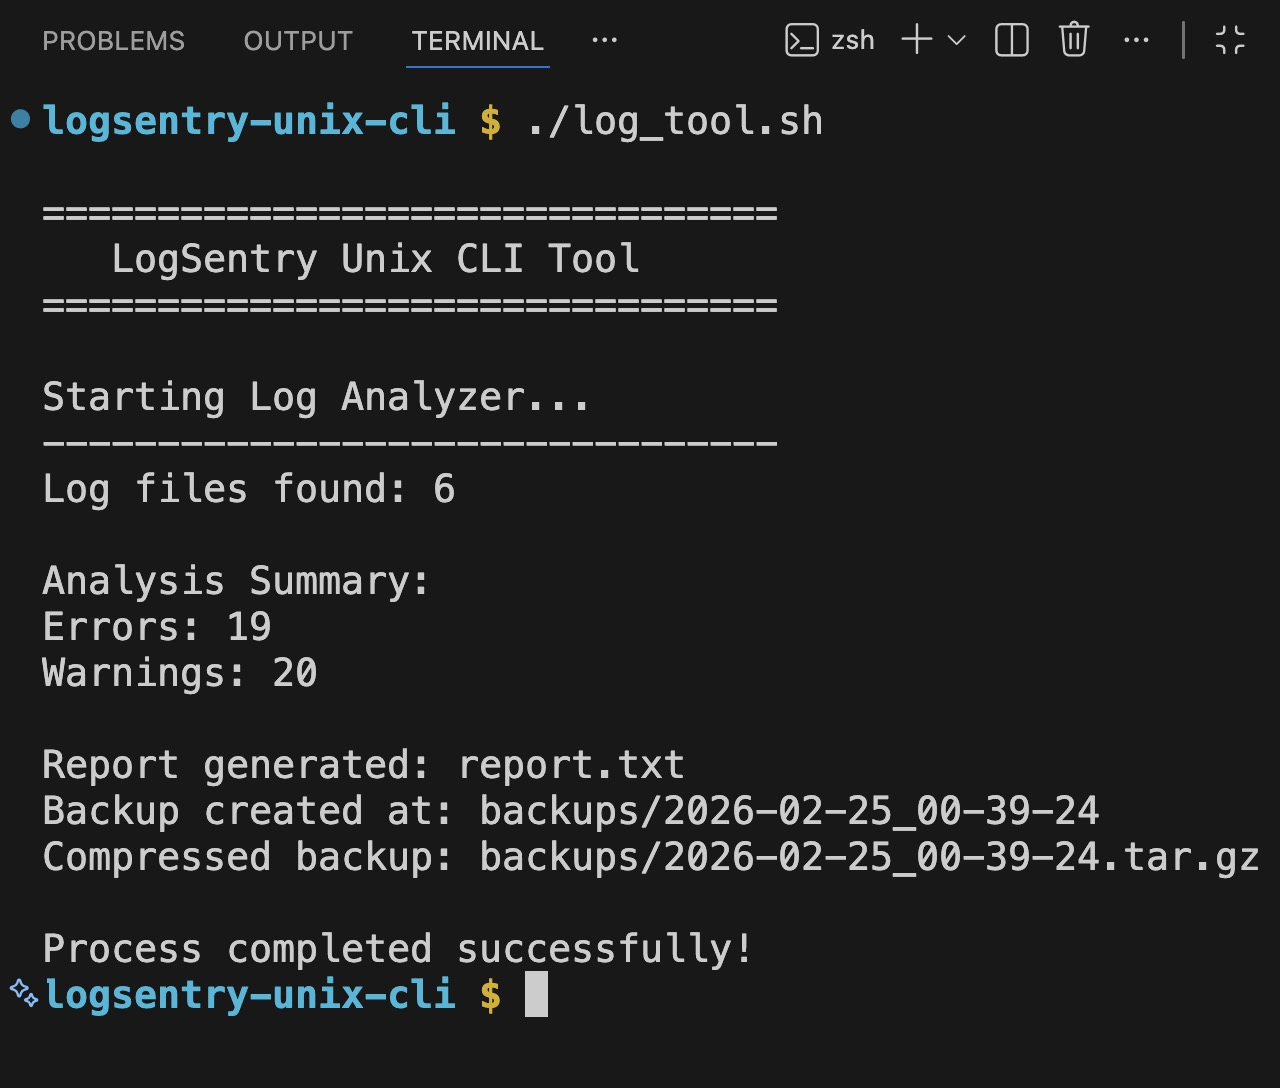
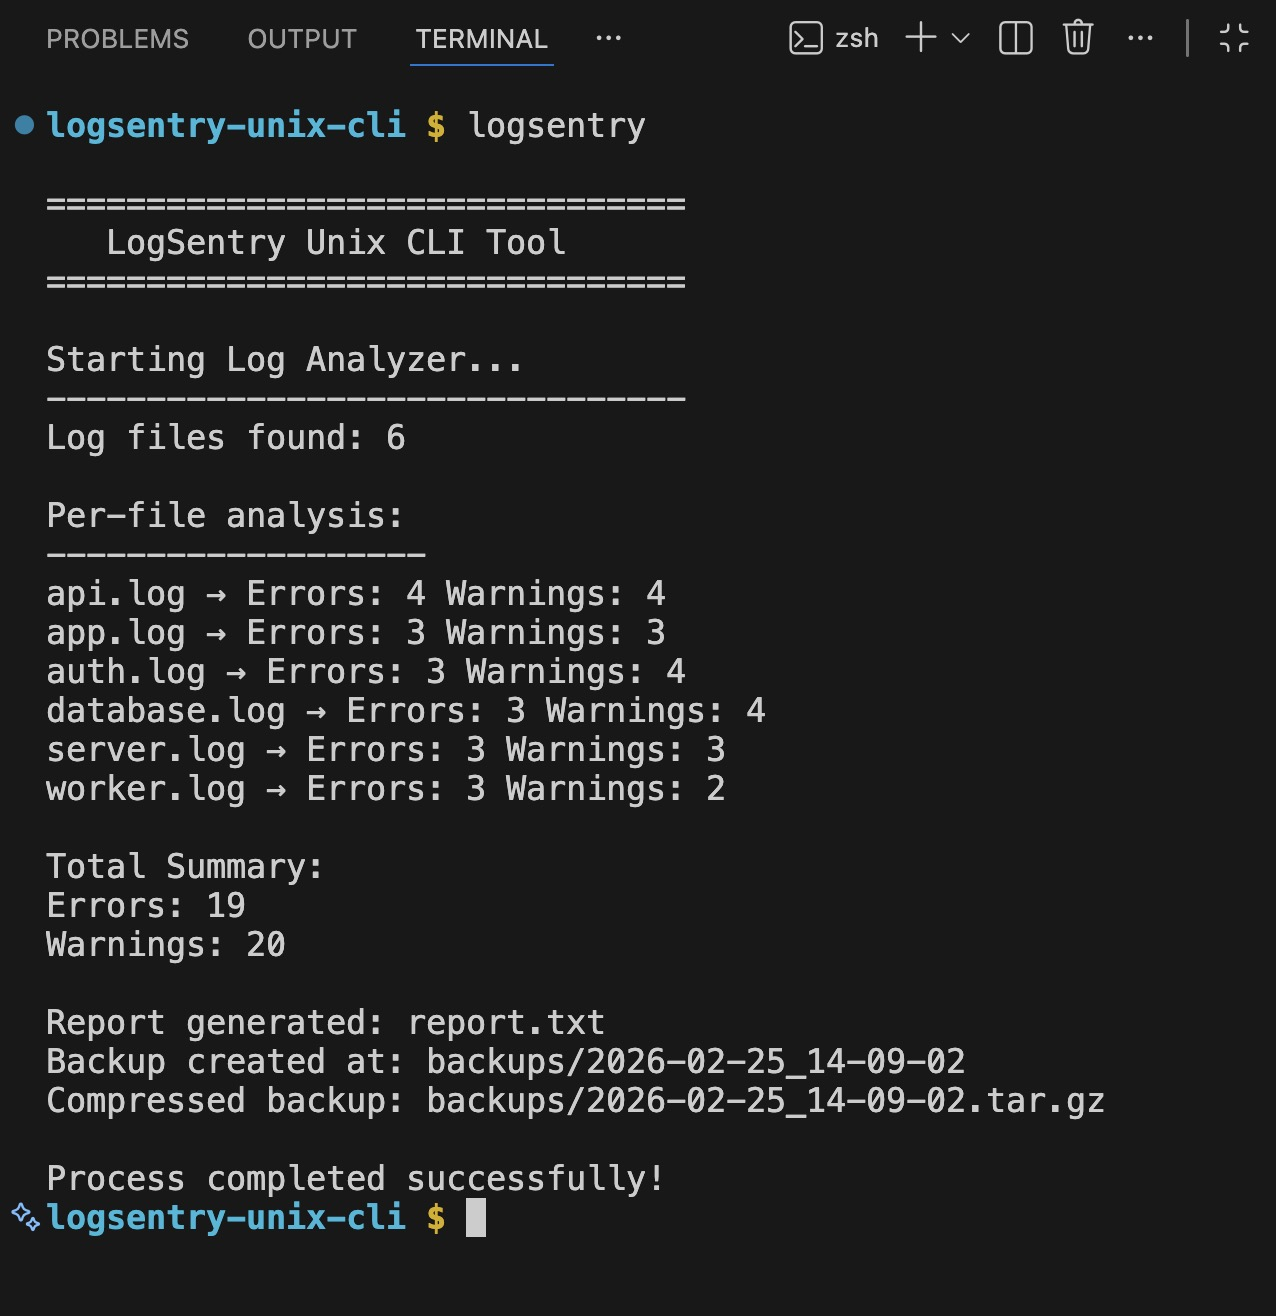
docs: update screenshots to reflect latest CLI features

diff --git a/README.md b/README.md
@@ -82,18 +82,18 @@ The test runner executes multiple scenarios and prints a compact summary for eac
 Run a single directory manually
 ```bash
 chmod +x log_tool.sh
-./log_tool.sh test_logs/real_world
+logsentry test_logs/real_world
 ```
 
 You can also analyze any custom directory containing .log files:
 ```bash
-./log_tool.sh /path/to/your/logs
+logsentry /path/to/your/logs
 ```
 
 For example: Real-World Simulation - A combined dataset simulates production-like conditions with mixed log patterns.
 
 ```bash
-./log_tool.sh test_logs/real_world
+logsentry test_logs/real_world
 ```
 
 What the tests validate
